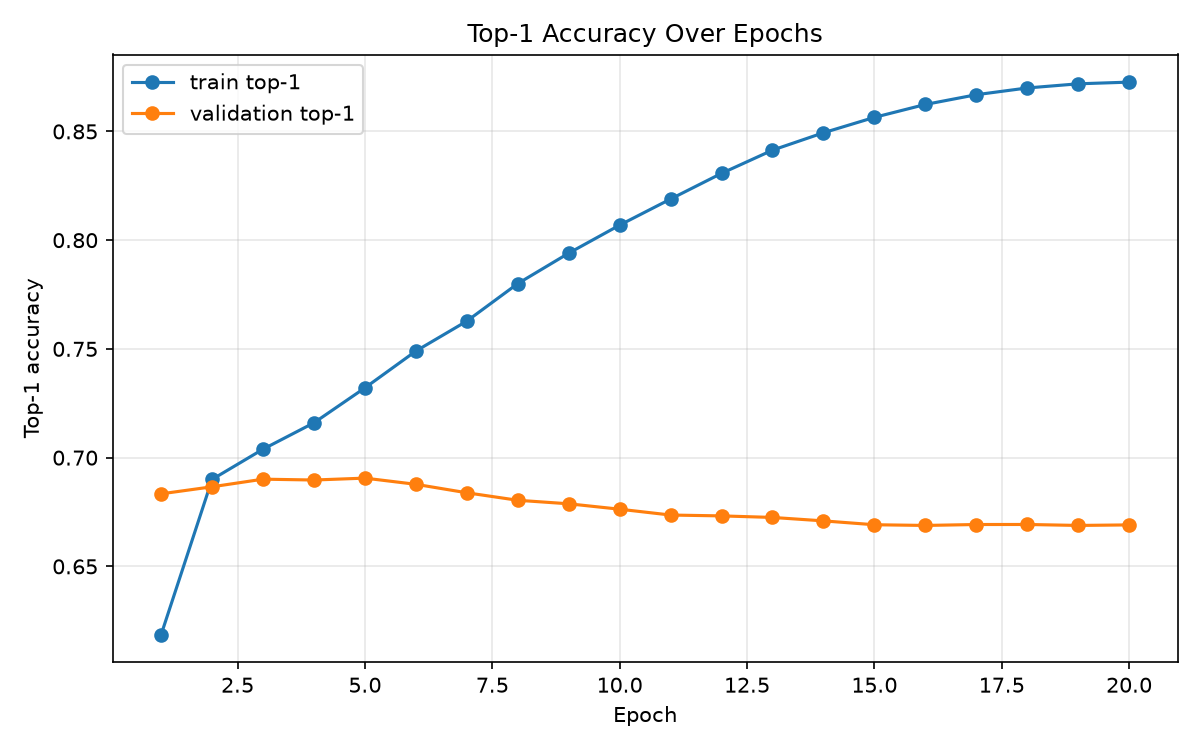
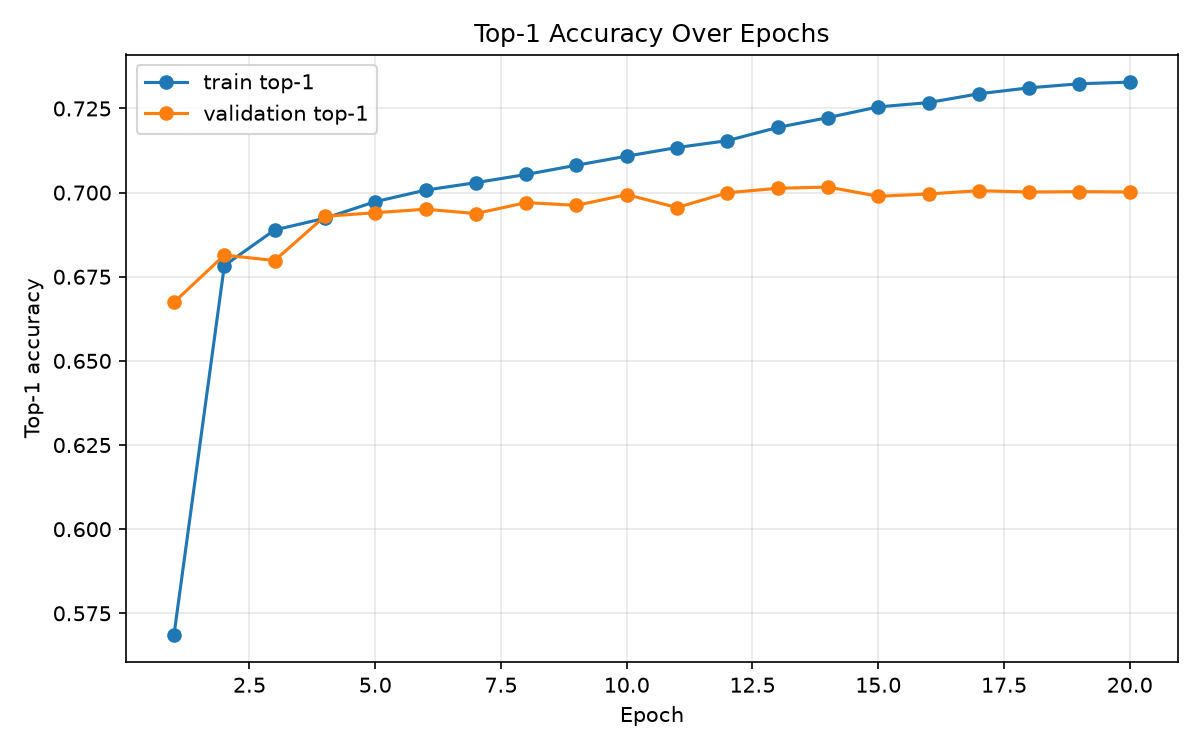
Added testing file to test model.

diff --git a/test.py b/test.py
@@ -1,0 +1,80 @@
+from pathlib import Path
+
+import torch
+
+from NN import ContextualDraftScorer, DraftScorer
+
+
+ROOT = Path(__file__).resolve().parent
+CHECKPOINT = ROOT / "models" / "draft_scorer_best.pt"
+
+device = torch.device("cuda" if torch.cuda.is_available() else "cpu")
+
+checkpoint = torch.load(CHECKPOINT, map_location=device)
+card_names = checkpoint["card_names"]
+card_to_index = {name: i for i, name in enumerate(card_names)}
+
+model_name = checkpoint.get("model_name", "contextual")
+model_kwargs = checkpoint["model_kwargs"]
+
+if model_name == "draftscorer":
+    model = DraftScorer(**model_kwargs)
+else:
+    model = ContextualDraftScorer(**model_kwargs)
+
+model.load_state_dict(checkpoint["model_state"])
+model.to(device)
+model.eval()
+
+
+def recommend_pick(pool_cards, pack_cards, pack_number, pick_number, top_k=5):
+    pool_counts = torch.zeros(1, len(card_names), device=device)
+    pack_counts = torch.zeros(1, len(card_names), device=device)
+
+    for card in pool_cards:
+        pool_counts[0, card_to_index[card]] += 1
+
+    for card in pack_cards:
+        pack_counts[0, card_to_index[card]] += 1
+
+    pack_number = torch.tensor([pack_number], device=device)
+    pick_number = torch.tensor([pick_number], device=device)
+
+    with torch.no_grad():
+        logits = model(pool_counts, pack_counts, pack_number, pick_number)
+        probs = torch.softmax(logits, dim=1)
+        values, indices = probs.topk(top_k, dim=1)
+
+    return [
+        (card_names[i], float(score))
+        for i, score in zip(indices[0].tolist(), values[0].tolist())
+    ]
+
+
+pack = [
+    "Planar Engineering",
+    "Thunderdrum Soloist",
+    "Eternal Student",
+    "Landscape Painter",
+    "Expressive Firedancer",
+    "Stone Docent",
+    "Adventurous Eater",
+    "Pull from the Grave",
+    "Sneering Shadewriter",
+    "Fields of Strife",
+]
+
+pool = [
+    "Tome Blast",
+    "Snarl Song",
+]
+
+picks = recommend_pick(
+    pool_cards=pool,
+    pack_cards=pack,
+    pack_number=0,
+    pick_number=2,
+)
+
+for card, score in picks:
+    print(f"{card}: {score:.3f}")

diff --git a/train.py b/train.py
@@ -21,8 +21,9 @@ from NN import ContextualDraftScorer, DraftScorer
 
 # ---- config: edit these, then run `python train.py` -------------------------
 ROOT = Path(__file__).resolve().parent
-DATA_DIR = ROOT / "data" / "cleaned_copy"
+DATA_DIR = ROOT / "data" / "cleaned"
 CARD_DATA = ROOT / "data" / "raw" / "SOS_cards.json"
+EXTRA_CARD_DATA = ROOT / "data" / "raw" / "SOS_extra_cards.json"
 OUTPUT_DIR = ROOT / "models"
 TOP1_PLOT = OUTPUT_DIR / "top1_over_epochs.png"
 
@@ -94,7 +95,7 @@ class Metrics:
 
 def config_dict() -> dict[str, Any]:
     keys = [
-        "DATA_DIR", "CARD_DATA", "OUTPUT_DIR", "MODEL", "EPOCHS", "BATCH_SIZE", "LR",
+        "DATA_DIR", "CARD_DATA", "EXTRA_CARD_DATA", "OUTPUT_DIR", "MODEL", "EPOCHS", "BATCH_SIZE", "LR",
         "WEIGHT_DECAY", "LABEL_SMOOTHING", "VAL_FRACTION", "SEED", "EMB_DIM",
         "HIDDEN_DIM", "SYNERGY_DIM", "DROPOUT", "GRAD_CLIP", "DEVICE", "NUM_THREADS",
         "USE_AMP", "COMPILE", "RESUME", "LIMIT_CHUNKS", "MAX_STEPS_PER_EPOCH",
@@ -130,11 +131,16 @@ def build_card_features(card_names: list[str]) -> tuple[torch.Tensor, list[str],
         return torch.empty(len(card_names), 0), [], {"matched": 0, "missing": len(card_names)}
 
     lookup: dict[str, dict[str, Any]] = {}
-    for card in load_json(CARD_DATA):
-        if name := card.get("name"):
-            lookup.setdefault(name, card)
-            for part in name.split(" // "):
-                lookup.setdefault(part, card)
+    card_files = [CARD_DATA]
+    if EXTRA_CARD_DATA.exists():
+        card_files.append(EXTRA_CARD_DATA)
+
+    for card_file in card_files:
+        for card in load_json(card_file):
+            if name := card.get("name"):
+                lookup.setdefault(name, card)
+                for part in name.split(" // "):
+                    lookup.setdefault(part, card)
 
     colors = ["W", "U", "B", "R", "G"]
     types = ["Creature", "Instant", "Sorcery", "Artifact", "Enchantment", "Land", "Planeswalker", "Battle"]